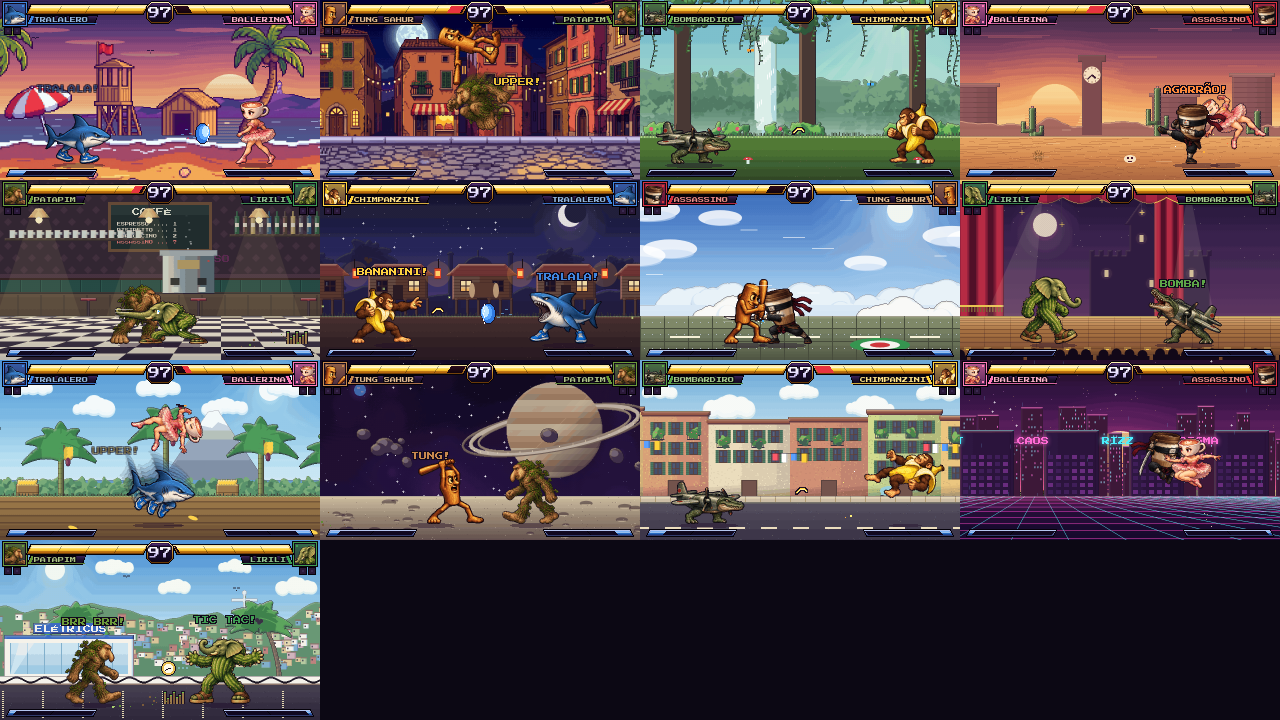
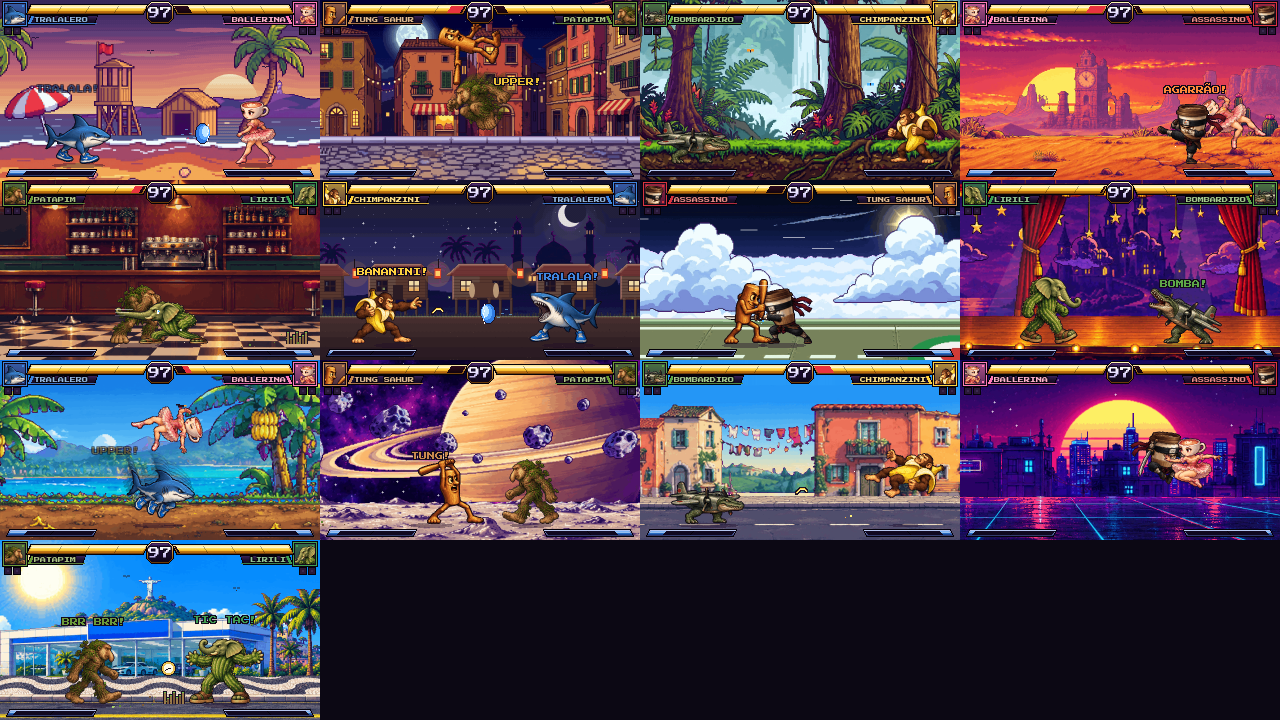
docs: arte dos cenários e imagens do README

diff --git a/docs/jogo/08-cenarios.md b/docs/jogo/08-cenarios.md
@@ -1,6 +1,6 @@
 # 08 · Cenários
 
-São 13 cenários pintados em código quando o jogo carrega: 10 de luta e 3 das fases bônus. Cada um tem a própria música e animações (pássaros, luzes, vapor, chuva…). A técnica de pintura está em [../tecnico/04-pintura-de-cenarios.md](../tecnico/04-pintura-de-cenarios.md).
+São 13 cenários: 10 de luta e 3 das fases bônus. Todos usam arte em pixel art feita por IA, em camadas de paralaxe (a Vila Sahur só no fundo); a pintura em código continua como reserva para as camadas sem imagem. Cada um tem a própria música e animações (pássaros, luzes, vaga-lumes…). A técnica está em [../tecnico/04-pintura-de-cenarios.md](../tecnico/04-pintura-de-cenarios.md) e o estado da arte de cada cenário em [../arte/prompts-cenarios.md](../arte/prompts-cenarios.md#status).
 
 <p align="center"><img src="../../assets/readme/stages.png" width="100%" alt="Os 13 cenários com lutas acontecendo"></p>
 
@@ -10,17 +10,17 @@ Código: [`src/game/stages/`](../../src/game/stages), um arquivo por cenário.
 |---|---------|------|--------|-----------|---------|
 | 0 | `beach.js` | Spiaggia | `beach` | Pôr do sol com faixas, reflexo no mar, farol, palmeiras, guarda-sol, posto de salva-vidas, areia molhada | Brilho do mar, gaivotas, linha de espuma |
 | 1 | `piazza.js` | Piazza | `piazza` | Céu noturno e lua, cúpula e torre, fachadas italianas com venezianas e sacadas, toldos, paralelepípedos, poças de luz quente | Estrelas piscando, varal de lâmpadas |
-| 2 | `jungle.js` | Giungla | `jungle` | Raios de sol, copas em camadas, cachoeira com névoa, troncos gigantes, cipós, flores, cogumelos | Água da cachoeira, borboletas |
-| 3 | `desert.js` | Deserto | `desert` | Sol do entardecer, mesas, ruína com relógio, cactos, dunas, caveira | Ponteiros do relógio, bola de feno, calor tremulando |
-| 4 | `cafe.js` | Caffè | `cafe` | Papel de parede, lousa com o cardápio ("ASSASSINO … ?"), prateleiras com xícaras e garrafas, máquina de espresso cromada, piso xadrez | Neon "ESPRESSO", vapor, cones de luz das luminárias |
+| 2 | `jungle.js` | Giungla | `jungle` | Raios de sol, copas em camadas, cachoeira com névoa, troncos gigantes, cipós, flores, cogumelos | Borboletas |
+| 3 | `desert.js` | Deserto | `desert` | Sol do entardecer, mesas, ruína com relógio, cactos, dunas, caveira | Bola de feno, calor tremulando |
+| 4 | `cafe.js` | Caffè | `cafe` | Papel de parede, lousa, prateleiras com xícaras e garrafas, máquina de espresso cromada, luminárias pendentes, balcão com banquetas, piso xadrez | – |
 | 5 | `villaggio.js` | Villaggio | `sahur` | Lua crescente, silhueta de mesquita, palmeiras, casas de palafita, tambor bedug | Lanternas balançando, vaga-lumes |
-| 6 | `cielo.js` | Cielo | `march` | Céu de grande altitude com brilho do sol, mar de nuvens, deck de aviação com o círculo tricolor | Nuvens passando, linhas de vento |
-| 7 | `teatro.js` | Teatro | `waltz` | Castelo pintado ao fundo, estrelas penduradas, cortinas de veludo, sanefa dourada, palco envernizado | Holofotes varrendo, ribalta, cabeças da plateia |
+| 6 | `cielo.js` | Cielo | `march` | Céu de grande altitude com brilho do sol, mar de nuvens, cauda tricolor do avião, deck de aviação com o círculo tricolor | Linhas de vento |
+| 7 | `teatro.js` | Teatro | `waltz` | Castelo pintado ao fundo, estrelas penduradas, cortinas de veludo, sanefa dourada, palco envernizado, ribalta, plateia | Holofotes varrendo |
 | 8 | `piantagione.js` | Piantagione | `banana` | Vulcão com neve, mar, fileiras de bananeiras com cachos, caixotes | Pássaros |
-| 9 | `saturno.js` | Saturno | `boss` | Nebulosas, campo de estrelas, a Terra, Saturno com o anel na frente e atrás do planeta, asteroides, chão de crateras | Brilhos, estrela cadente, poeira do anel |
-| 10 | `strada.js` | Strada | `bonus` | Prédios em tons pastel, colinas com ciprestes, vespa, calçada, asfalto | Varais de roupa |
-| 11 | `cyber.js` | Neon Città | `cyber` | Sol synthwave, skyline em neon, piso de grade neon | Letreiros piscando ("MEME", "RIZZ", "SIGMA"), chuva |
-| 12 | `byd.js` | Vila Brasilini | `byd` | Morro de casinhas coloridas, estátua no alto do morro, concessionária "ELÉTRICOS", **calçadão de ondas de Copacabana** | Pássaros (e o papagaio, veja [09](09-fases-bonus-e-memes.md)) |
+| 9 | `saturno.js` | Saturno | `boss` | Nebulosas, campo de estrelas, a Terra, Saturno gigante com os anéis, asteroides flutuando, chão de crateras | Brilhos, estrela cadente |
+| 10 | `strada.js` | Strada | `bonus` | Prédios em tons pastel, varais de roupa, colinas com ciprestes, vespa, calçada, asfalto | – |
+| 11 | `cyber.js` | Neon Città | `cyber` | Sol synthwave, skyline em neon, piso de grade neon | Estrelas piscando |
+| 12 | `byd.js` | Vila Brasilini | `byd` | Morro de casinhas coloridas, estátua no alto do morro, concessionária de vidro com carros, **calçadão de ondas de Copacabana** | Pássaros (e o papagaio, veja [09](09-fases-bonus-e-memes.md)) |
 
 ## Onde cada cenário aparece
 

diff --git a/docs/arte/prompts-cenarios.md b/docs/arte/prompts-cenarios.md
@@ -490,8 +490,18 @@ Scene: a sunny Brazilian seaside neighborhood inspired by Rio de Janeiro. Bright
 |---------|------|------------|
 | `piazza` | SKY, FAR, MID, FLOOR | As 4 camadas saíram certas. |
 | `beach` | FAR, MID, FLOOR | O céu continua procedural (mar, sol e gaivotas animadas). FAR e FLOOR vieram "sujos" e foram recortados (só as colinas com o farol; só a espuma e a areia). |
+| `jungle` | FAR, MID, FLOOR | Veio só o master, as árvores (MID) e o corte do chão com raízes (FLOOR). O FAR é o miolo do master, entre os troncos (cachoeira), repetido na horizontal; as emendas ficam atrás das árvores. A névoa cinza sobre a grama do FLOOR sai com `haze`. Sem a água animada da cachoeira. |
+| `desert` | SKY, FAR, MID, FLOOR | Folha com as 4 camadas empilhadas (sem rótulos). Sem os ponteiros animados do relógio. |
+| `cafe` | FAR, MID (vazio), FLOOR | Veio só o master (opaco). Parede, balcão e banquetas viram o FAR; o xadrez vira o FLOOR; o MID fica vazio (`blank`). Sem o neon "ESPRESSO", o vapor e os cones de luz. |
+| `villaggio` | FAR | Só a silhueta da mesquita com palmeiras; céu, casas e chão continuam procedurais (com lanternas e vaga-lumes). |
+| `cielo` | SKY, FAR, MID, FLOOR | Arquivos separados. Sem as nuvens procedurais passando (as linhas de vento continuam). |
+| `teatro` | SKY, FAR, MID, FLOOR | Folha com rótulos. Sem a ribalta e as cabeças da plateia procedurais (a arte já tem as duas); os holofotes continuam. |
+| `piantagione` | SKY, FAR, MID, FLOOR | Folha com rótulos. |
+| `saturno` | SKY, FAR, MID, FLOOR | Folha com rótulos. Sem a poeira animada do anel. Também é o fundo da tela de título. |
+| `strada` | SKY, FAR, MID, FLOOR | Folha com rótulos. Os varais agora estão na arte (sem o balanço procedural). |
+| `cyber` | SKY, FAR, MID, FLOOR | Folha com rótulos. Sem os letreiros de texto piscando e a chuva. |
+| `byd` | SKY, FAR, MID, FLOOR | Folha com rótulos. |
 | `map` | MAP | Mapa de Brainrotália; os 11 locais foram reposicionados nos marcos da arte. |
-| os outros 11 cenários | – | Pintura procedural. |
 
 ### Lições das duas primeiras gerações
 
@@ -499,6 +509,9 @@ Scene: a sunny Brazilian seaside neighborhood inspired by Rio de Janeiro. Bright
 - **Nada de areia ou chão na camada MID.** Se vier, dá para cortar com `clipBelow`, mas o ideal é o objeto terminar na linha do chão.
 - **O FLOOR pode vir mais alto que 75%.** Não tem problema: o `anchor` diz qual linha da imagem vira a linha do chão do jogo.
 - Proporção 21:9 funcionou bem (o Gemini entregou 3168×1344).
+- **Folhas de camadas também servem.** Quando a IA entrega as camadas numa imagem só (master em cima, SKY/FAR/MID/FLOOR em painéis), não precisa separar à mão: cada camada usa `crop` com o retângulo do painel. Os rótulos ("SKY (16:9)", "FAR"…) saem com `drop` quando estão sobre o magenta, ou ficam de fora do `crop` quando estão sobre o desenho. As divisórias brancas têm 1–3 px a mais do que parece: recorte uns pixels para dentro.
+- **Painéis de folha são baixos.** Um SKY de folha tem ~200 px de altura: em vez de esticar, o céu fica numa escala menor e o pipeline repete a linha pintada mais próxima para cobrir o resto da camada (topo liso).
+- **Só o master?** Também dá: o master opaco vira o FAR (ou o miolo dele, repetido) e o chão vira o FLOOR; `blank` esvazia uma camada procedural que ficaria por cima.
 
 ### Posicionamento (`stages.json`)
 
@@ -510,9 +523,13 @@ Scene: a sunny Brazilian seaside neighborhood inspired by Rio de Janeiro. Bright
 | `x` | Onde começa a imagem na camada (padrão: centralizada). |
 | `key` | Recorta o fundo magenta. |
 | `keep` | Retângulos da imagem (em frações) a manter; o resto vira transparente. Bom para aproveitar só parte de uma imagem. |
+| `crop` | Retângulo (frações) de uma folha com várias camadas. Todas as outras frações passam a ser relativas a ele. |
+| `drop` | Retângulos (frações) a apagar, como os rótulos dos painéis de uma folha. |
 | `clipAbove` / `clipBelow` | Descarta tudo acima/abaixo de uma linha (fração da altura). |
+| `haze` | Acima dessa linha, descarta os pixels desbotados (névoa que a IA pintou atrás da grama). |
 | `tile` | `"mirror"` ou `"repeat"` para preencher a largura da camada. |
 | `outline` | Escurece a borda das silhuetas (0 a 1), como o contorno dos sprites. |
+| `blank` | Camada vazia: esconde a pintura procedural quando a arte já cobre aquela profundidade. |
 | `off` (no cenário) | Animações procedurais que não combinam mais com a arte (ex.: as lâmpadas da Piazza, que agora estão desenhadas). |
 
 O pipeline recorta, escala, posiciona e aplica a mesma paleta limitada e o mesmo contorno dos cenários pintados, para a arte, os sprites e o HUD terem um visual só.

diff --git a/docs/tecnico/04-pintura-de-cenarios.md b/docs/tecnico/04-pintura-de-cenarios.md
@@ -65,7 +65,7 @@ Pintar e converter os 13 cenários leva cerca de 1,3 s, uma única vez no boot: 
 Um cenário pode trocar qualquer camada pintada por uma imagem. O fluxo:
 
 1. A arte fica em `assets/stage-art/<id>/` (gerada a partir dos prompts em [../arte/prompts-cenarios.md](../arte/prompts-cenarios.md)).
-2. `npm run stages:art` ([`tools/process-stage-art.js`](../../tools/process-stage-art.js)) lê `assets/stage-art/stages.json`, recorta o magenta, posiciona a camada (linha do chão em y=272), repete na horizontal se precisar e aplica `stagePalette()` + `mapLayer()` (paleta de 64 cores, contorno). Saída: `public/stages/<id>/<camada>.png` e o manifesto [`src/game/data/stage-art.js`](../../src/game/data/stage-art.js).
+2. `npm run stages:art` ([`tools/process-stage-art.js`](../../tools/process-stage-art.js)) lê `assets/stage-art/stages.json`, recorta o painel da folha de camadas (`crop`), o magenta, os rótulos (`drop`) e a névoa (`haze`), posiciona a camada (linha do chão em y=272), repete na horizontal se precisar e aplica `stagePalette()` + `mapLayer()` (paleta de 64 cores, contorno). Saída: `public/stages/<id>/<camada>.png` e o manifesto [`src/game/data/stage-art.js`](../../src/game/data/stage-art.js). Uma camada `blank` sai vazia (esconde a pintura procedural). As fontes não vão para o git: se uma não estiver na máquina, a camada já processada em `public/stages/` é mantida.
 3. No boot, `loadStageArt()` ([`stages/art.js`](../../src/game/stages/art.js)) carrega as imagens junto com os atlas. `buildNextStage()` pinta o cenário procedural normalmente e `applyArt()` troca as camadas que têm imagem e remove os ganchos de animação listados em `off`.
 
 Assim cada cenário pode ganhar arte aos poucos, camada por camada, sem quebrar os outros.
